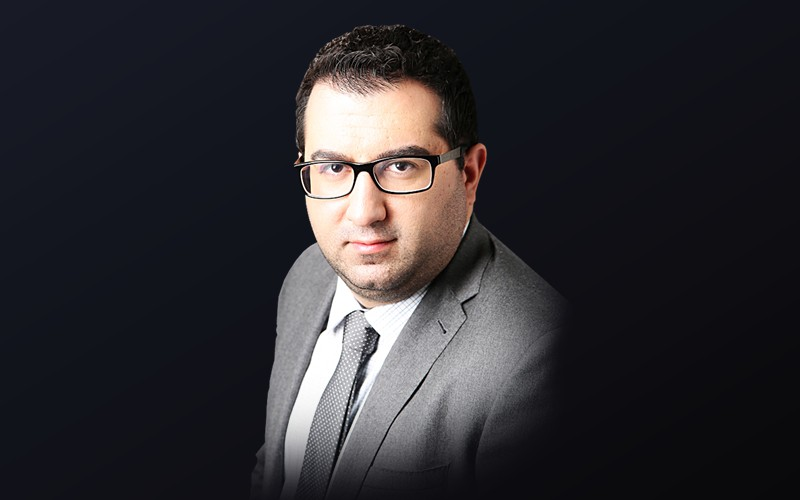
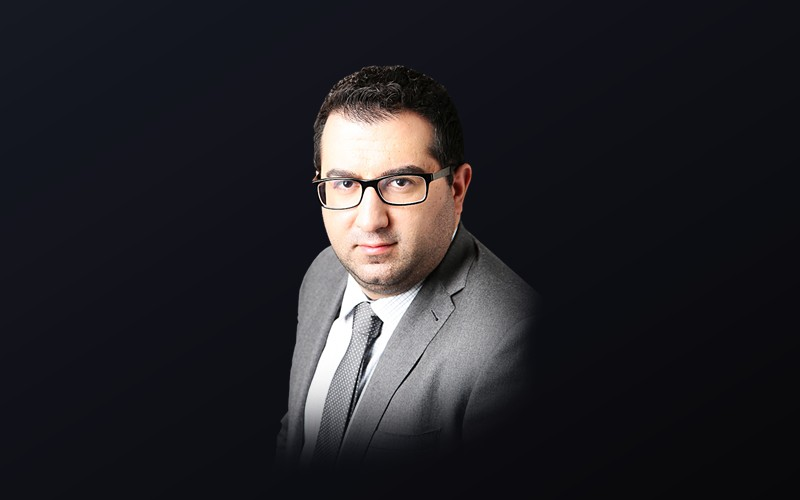
Adjust Strolling Mind Reading headshot framing with generous top head clearance and studio lighting

Changed region(s): [[0.3125, 0.03, 0.7188, 0.99]]

diff --git a/index.html b/index.html
@@ -255,7 +255,7 @@
           <!-- Package 2: Strolling Mind Reading -->
           <div class="service-card-interactive gold-glow-card">
             <div class="service-card-image-wrap" style="position: relative; width: 100%; height: 220px; overflow: hidden; background: #0E0F14;">
-              <img src="images/adrian_strolling_headshot.jpg" alt="Strolling Mind Reading - Adrian Saint" class="service-card-image" style="width: 100%; height: 100%; object-fit: cover; object-position: center; display: block;">
+              <img src="images/adrian_strolling_headshot.jpg?v=20260825_v2" alt="Strolling Mind Reading - Adrian Saint" class="service-card-image" style="width: 100%; height: 100%; object-fit: cover; object-position: center; display: block;">
             </div>
             <div class="service-card-body">
               <div>
@@ -870,6 +870,6 @@
   </footer>
 
   <!-- JavaScript Modules (Cache-Busted) -->
-  <script type="module" src="js/app.js?v=20260825_v19"></script>
+  <script type="module" src="js/app.js?v=20260825_v20"></script>
 </body>
 </html>
